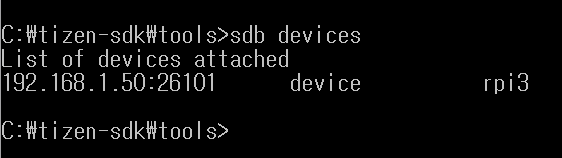
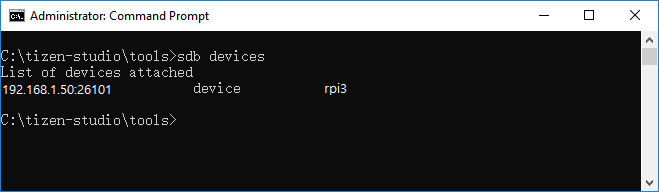
Update the screenshots and remove a blank line

Changed region(s): [[0.0, 0.0, 1.0, 1.0], [0.0, 0.7595, 0.4235, 0.8861], [0.847, 0.4557, 0.9377, 0.5823]]

diff --git a/docs/application/dotnet/get-started/iot/first-app.md b/docs/application/dotnet/get-started/iot/first-app.md
@@ -10,8 +10,7 @@ The Tizen .NET framework allows you to easily and efficiently create application
 
 3. [Build Your Application](#build-your-application).
 
-    After you have implemented code for the features you want, this step shows how you can build the application to validate and compile
-    the code.
+    After you have implemented code for the features you want, this step shows how you can build the application to validate and compile the code.
 
 4. [Deploy and Run Your Application](#deploy-and-run-your-application).
 
